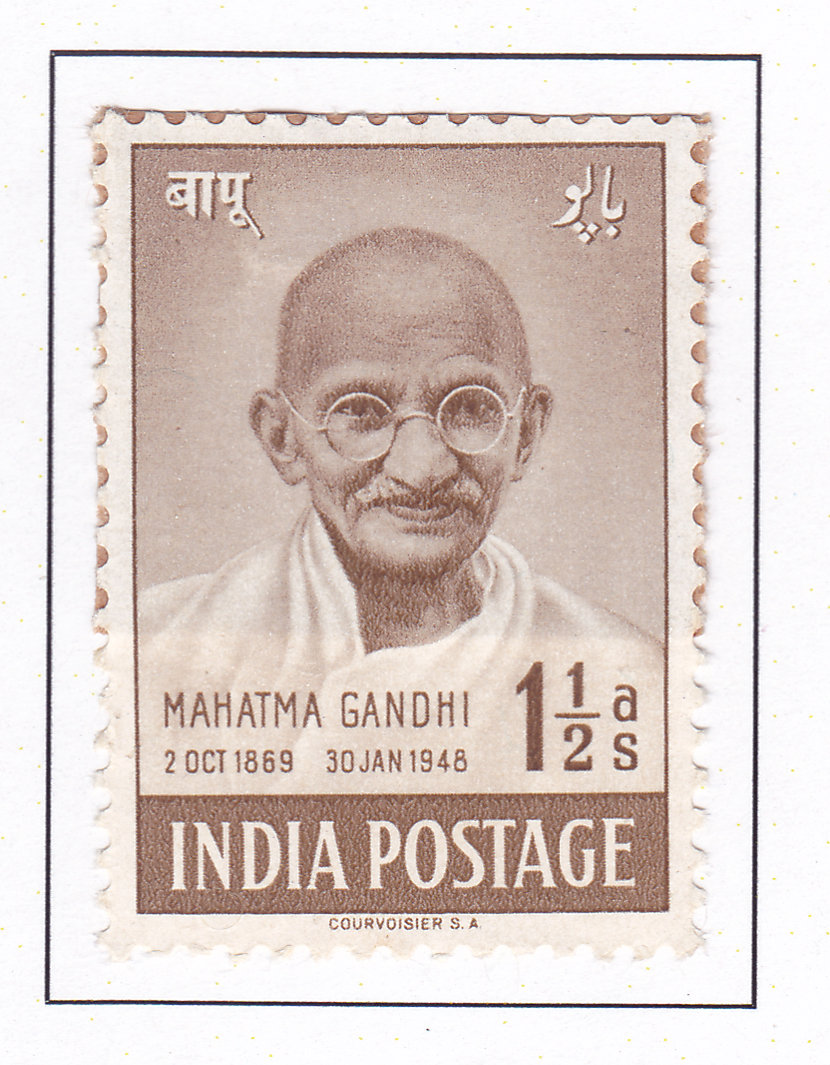
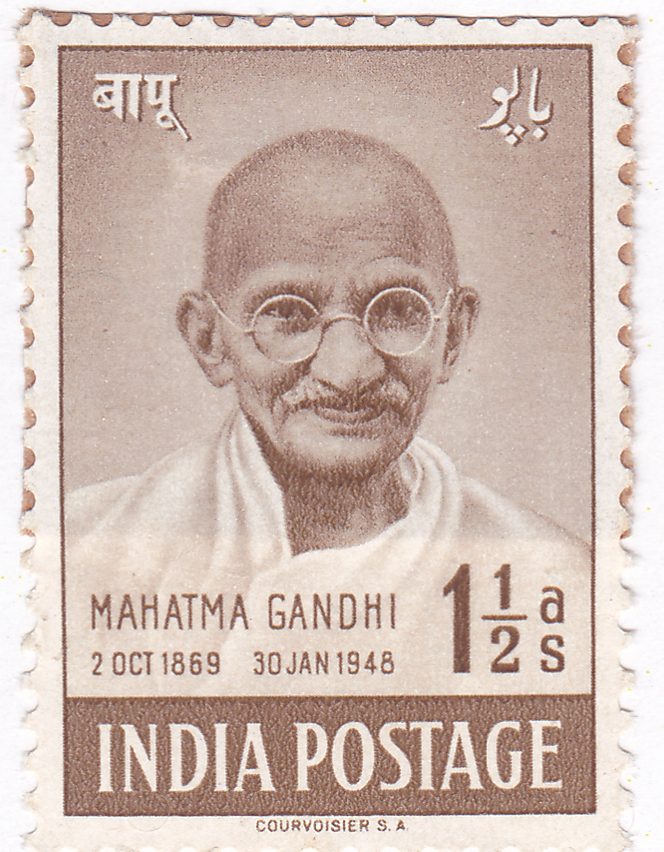
Her section updated

diff --git a/src/components/Hero/Stamps.jsx b/src/components/Hero/Stamps.jsx
@@ -5,13 +5,13 @@ function Stamps() {
   const stampData = [
     {
       img: '/bapu_stamp.jpg',
-      names: 'Bapu Stamp',
+      names: 'Mahatma Gandhi',
       time: '15 AUG 1948',
       theme: 'Personality'
     },
     {
       img: '/games_stamp.jpg',
-      names: 'Game Stamp',
+      names: 'Asian Games',
       time: '04 March 1951',
       theme: 'Event'
     },
@@ -70,15 +70,15 @@ function Stamps() {
               <motion.img
                 src={stamp.img}
                 alt={stamp.names}
-                className='w-60 h-60 object-cover' 
+                className='w-60 h-72 ' 
               />
               <motion.div
                 className='text-center ibm-plex-mono-medium mt-4'
                 animate={{ opacity: isCurrent ? 1 : 0 }}
               >
                 <div className=''>Name - {stamp.names}</div>
-                <div>Time Period - {stamp.time}</div>
-                <div>Main Theme - {stamp.theme}</div>
+                <div>Issued - {stamp.time}</div>
+                <div>Theme - {stamp.theme}</div>
               </motion.div>
             </div>
           </motion.div>

diff --git a/src/components/Identifier/Identifier.jsx b/src/components/Identifier/Identifier.jsx
@@ -21,7 +21,7 @@ function Identifier() {
   return (
     <div className='bg-[#F5F4E8]'>
       <div className='text-4xl text-center young-serif-regular text-[4C1F1F] p-10'>
-        AI Based Image Identifier
+        AI Based Stamp Identifier
       </div>
 
       <div className="flex flex-col items-center justify-center p-6  border-brown-500 rounded-lg pb-44 pt-20">
